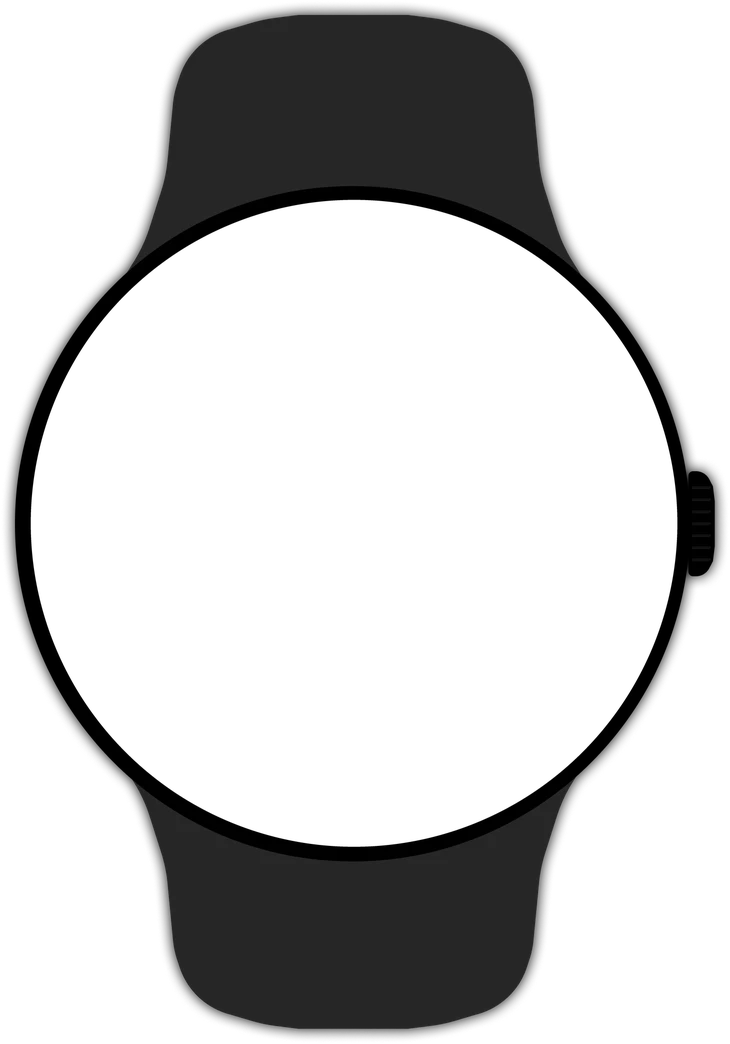
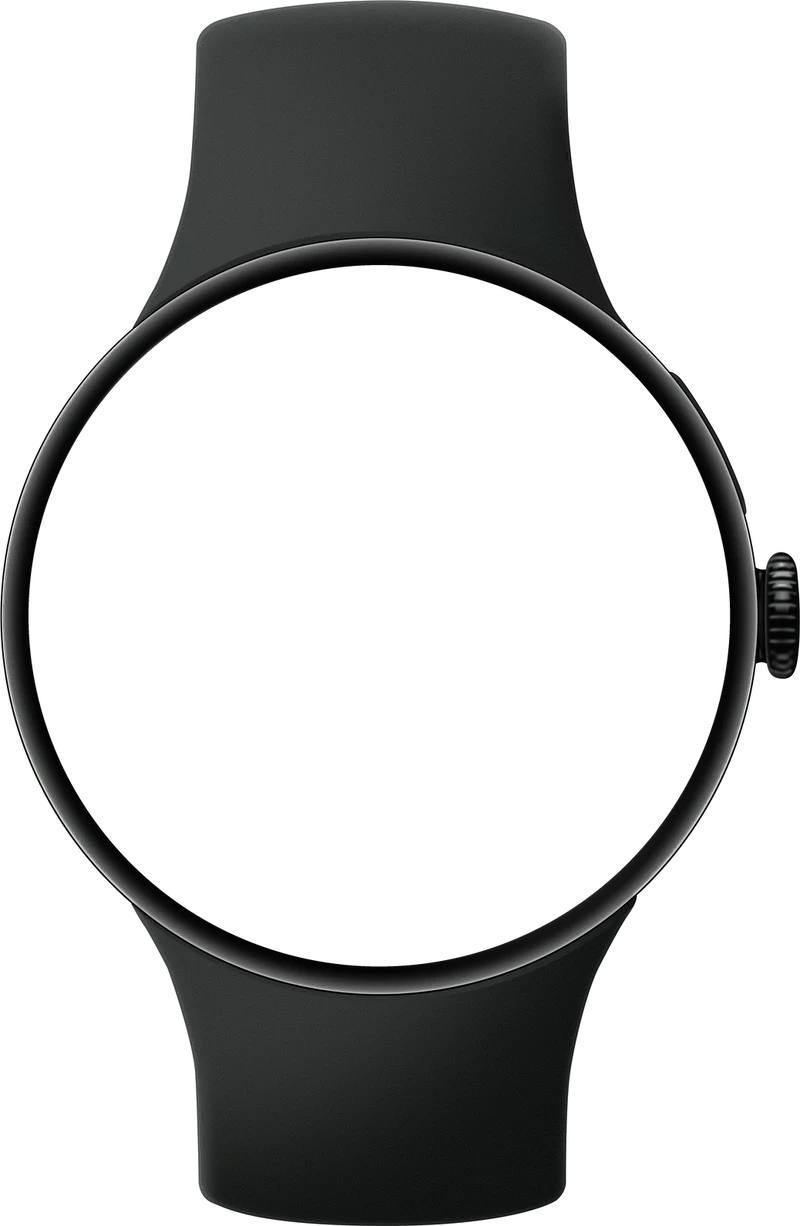
GCV: cassa Wear OS sostituita col mockup del Pixel Watch 4, riflesso del vetro, orologi meno sovrapposti

Changed region(s): [[0.0, 0.0, 1.0, 1.0]]

diff --git a/assets/piattaforma.css b/assets/piattaforma.css
@@ -63,27 +63,29 @@ html.dark .os-switch--scuro button[aria-pressed="true"] { background: #fff; colo
 .and-badge-bot { left: 0; bottom: -22px; z-index: 2; }
 
 /* ---------- Wear OS: schermate disegnate in HTML dentro la cassa di un orologio rotondo
-   (assets/wearos-cassa.webp, schermo trasparente). Misure in --u = 1/600 della larghezza
+   (assets/wearos-cassa.webp: Pixel Watch 4, schermo trasparente). Misure in --u = 1/600 della larghezza
    del contenitore: i tre orologi scalano insieme. */
 .wear-duo { container-type: inline-size; position: relative; display: flex; align-items: center; justify-content: center; gap: 0; padding: 1.5cqw 0; }
 .wear-duo > * { --u: calc(100cqw / 600); }
-.wear-duo .wear-cassa { position: relative; flex-shrink: 0; width: calc(225 * var(--u)); aspect-ratio: 1460 / 2087; }
-.wear-duo .wear-cassa--centro { width: calc(265 * var(--u)); z-index: 1; }
+.wear-duo .wear-cassa { position: relative; flex-shrink: 0; width: calc(215 * var(--u)); aspect-ratio: 1038 / 1591; }
+.wear-duo .wear-cassa--centro { width: calc(255 * var(--u)); z-index: 1; }
 /* i due laterali stanno un po' dietro al centrale, sovrapposti */
-.wear-duo .wear-cassa--lato { margin: 0 calc(-62 * var(--u)); z-index: 0; filter: brightness(.8); }
+.wear-duo .wear-cassa--lato { margin: 0 calc(-45 * var(--u)); z-index: 0; filter: brightness(.8); }
 .wear-cassa::after {
   content: ""; position: absolute; inset: 0; pointer-events: none;
   background: url(wearos-cassa.webp) center / 100% 100% no-repeat;
 }
 .wear-duo .wear-cassa--centro::after { filter: drop-shadow(0 calc(26 * var(--u)) calc(30 * var(--u)) rgba(0,0,0,.7)); }
-/* lo schermo è il foro della cassa: centro a (48,5%; 50,1%), diametro 88,6% della larghezza */
+/* lo schermo è il foro della cassa: centro a (47,4%; 50,2%), diametro 87,7% della larghezza */
 .wear-duo .wear {
   box-sizing: border-box; aspect-ratio: 1; position: absolute; overflow: hidden;
-  left: 48.5%; top: 50.1%; transform: translate(-50%, -50%); width: 89.4%; height: auto;
+  left: 47.4%; top: 50.2%; transform: translate(-50%, -50%); width: 88.4%; height: auto;
   border-radius: 50%; padding: calc(30 * var(--u)) calc(26 * var(--u)) 0;
   background: #000; color: #E6E0FF; display: flex; flex-direction: column; align-items: center; justify-content: flex-start;
   text-align: center; font-variant-numeric: tabular-nums;
 }
+/* riflesso del vetro, come nel mockup originale */
+.wear-duo .wear::after { content: ""; position: absolute; inset: 0; border-radius: 50%; pointer-events: none; background: linear-gradient(140deg, rgba(255,255,255,.13), rgba(255,255,255,0) 34%); }
 .wear__ora { font-size: calc(11 * var(--u)); font-weight: 700; color: #fff; margin-bottom: calc(10 * var(--u)); }
 .wear__tit { font-size: calc(12.5 * var(--u)); font-weight: 700; color: #C8BFFF; }
 .wear__importo { font-size: calc(30 * var(--u)); font-weight: 800; letter-spacing: -.8px; color: #fff; line-height: 1.15; margin: calc(2 * var(--u)) 0 calc(2 * var(--u)); }
@@ -123,5 +125,5 @@ html.dark .os-switch--scuro button[aria-pressed="true"] { background: #fff; colo
 @media (max-width: 560px) {
   .wear-duo > * { --u: calc(100cqw / 470); }
   .wear-duo .wear-cassa--lato:first-child { display: none; }
-  .wear-duo .wear-cassa--lato { margin: 0 0 0 calc(-62 * var(--u)); }
+  .wear-duo .wear-cassa--lato { margin: 0 0 0 calc(-45 * var(--u)); }
 }
